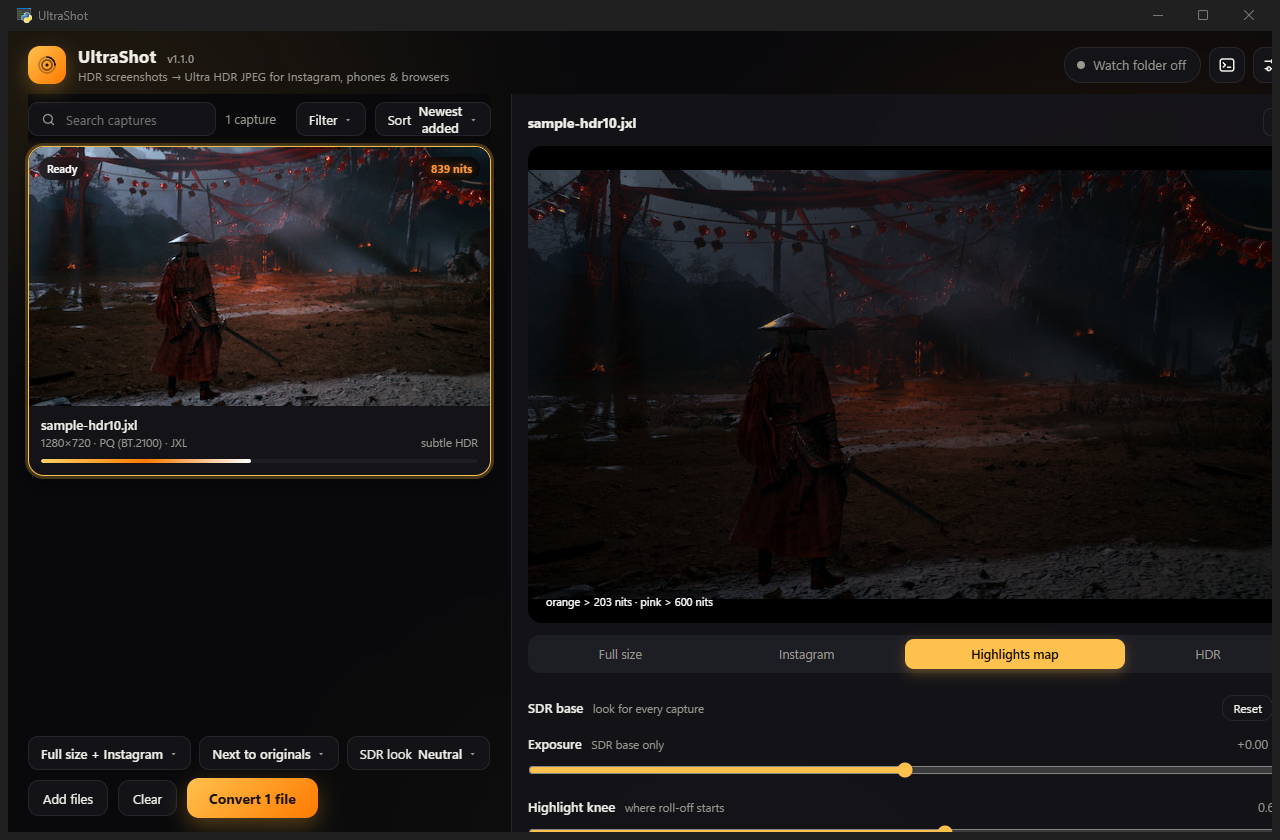
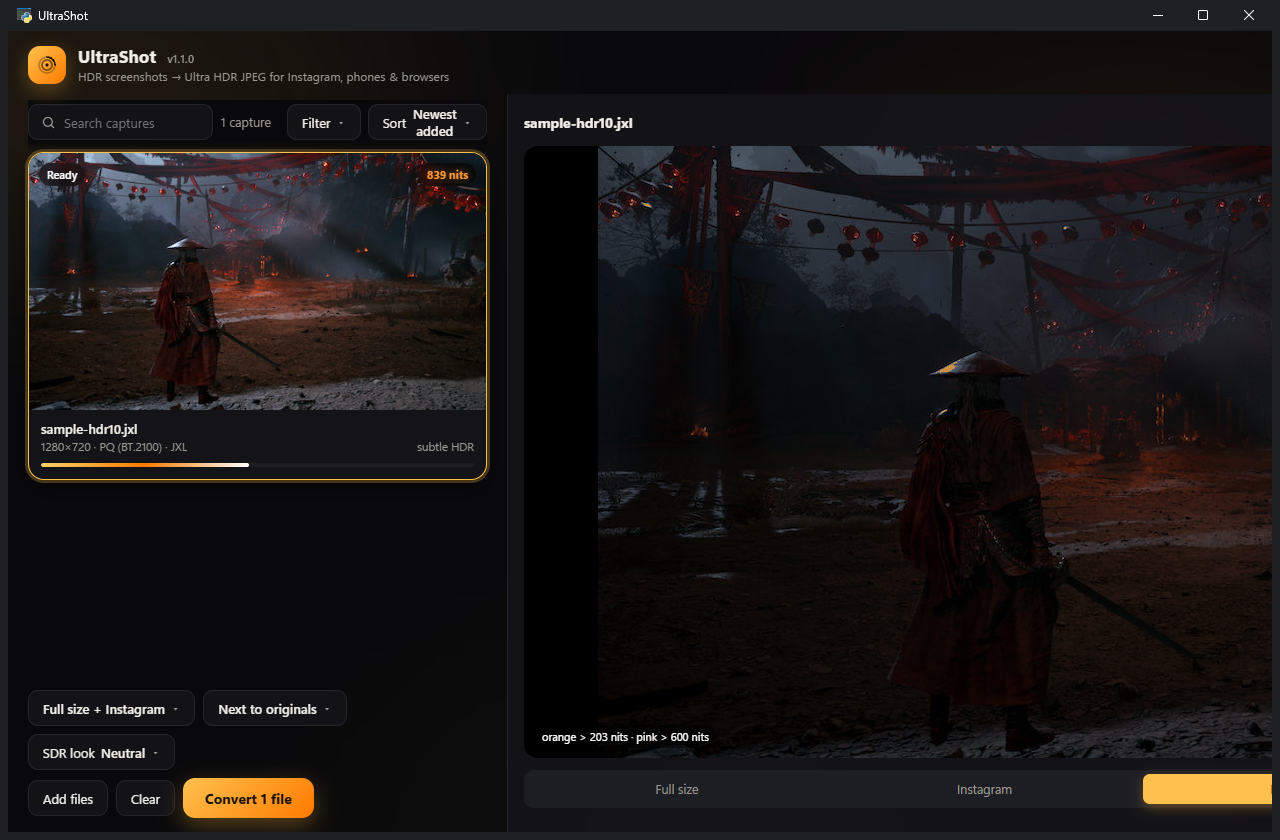
Consistent control sizes, radii, borders and padding across the window
Design tokens for control height, small height, control radius, primary radius and panel radius, applied to the top bar, grid bar, bottom bar, inspector, settings inputs, viewer controls, menus and toasts. The grid bar loses its negative offsets, the search field drops the native search chrome, small buttons rely on container gaps instead of a stray margin, and inputs get matching hover and focus borders.

diff --git a/ui/app.css b/ui/app.css
@@ -15,6 +15,11 @@
   --err: #ff5d6c;
   --shadow: 0 18px 50px rgba(0, 0, 0, 0.45);
   --radius: 16px;
+  --r-ctl: 10px;      /* chips, buttons, inputs, icon buttons, search */
+  --r-btn: 12px;      /* the primary call to action */
+  --r-panel: 14px;    /* previews, settings sections, menus */
+  --h-ctl: 36px;      /* every control in a bar */
+  --h-sm: 28px;       /* small buttons inside headers */
   --font: "Segoe UI Variable Text", "Segoe UI", Inter, system-ui, -apple-system, sans-serif;
   --mono: "Cascadia Code", Consolas, "Courier New", monospace;
 }
@@ -86,15 +91,15 @@ small { color: var(--muted); font-weight: 400; }
 .sub { font-size: 12px; color: var(--muted); margin-top: 1px; }
 .topbar-right { display: flex; align-items: center; gap: 8px; }
 .iconbtn {
-  width: 36px; height: 36px; border-radius: 11px; display: grid; place-items: center; color: var(--text);
+  width: var(--h-ctl); height: var(--h-ctl); border-radius: var(--r-ctl); display: grid; place-items: center; color: var(--text);
   background: var(--panel); border: 1px solid var(--border); backdrop-filter: blur(10px);
   transition: background .15s, transform .1s;
 }
 .iconbtn:hover { background: var(--panel2); }
 .iconbtn:active { transform: scale(.96); }
-.iconbtn.small { width: 28px; height: 28px; border-radius: 8px; }
+.iconbtn.small { width: var(--h-sm); height: var(--h-sm); border-radius: 8px; }
 .pill {
-  display: flex; align-items: center; gap: 8px; height: 36px; padding: 0 14px 0 12px; border-radius: 999px;
+  display: flex; align-items: center; gap: 8px; height: var(--h-ctl); padding: 0 14px 0 12px; border-radius: 999px;
   background: var(--panel); border: 1px solid var(--border); font-size: 13px; color: var(--muted);
   transition: all .15s;
 }
@@ -106,11 +111,12 @@ small { color: var(--muted); font-weight: 400; }
 
 /* ---------- main */
 #main { position: relative; z-index: 1; padding: 6px 20px 12px; overflow: auto; min-height: 0; }
-.gridbar { position: sticky; top: -6px; z-index: 3; display: flex; align-items: center; gap: 10px; padding: 8px 0 10px; margin-top: -6px;
-  background: linear-gradient(var(--bg) 82%, transparent); }
-.gridbar .search { display: flex; align-items: center; gap: 8px; height: 34px; padding: 0 12px; border-radius: 10px; background: var(--panel); border: 1px solid var(--border); color: var(--muted); flex: 0 1 260px; min-width: 140px; }
+.gridbar { position: sticky; top: 0; z-index: 3; display: flex; align-items: center; gap: 8px; padding: 4px 0 12px;
+  background: linear-gradient(var(--bg) 78%, transparent); }
+.gridbar .search { display: flex; align-items: center; gap: 8px; height: var(--h-ctl); padding: 0 12px; border-radius: var(--r-ctl); background: var(--panel); border: 1px solid var(--border); color: var(--muted); flex: 0 1 260px; min-width: 140px; box-sizing: border-box; }
+.gridbar .search:hover { border-color: var(--border2); }
 .gridbar .search:focus-within { border-color: var(--accent); color: var(--text); }
-.gridbar .search input { flex: 1; min-width: 0; border: 0; background: none; color: var(--text); font: inherit; font-size: 13px; outline: none; }
+.gridbar .search input { flex: 1; min-width: 0; border: 0; background: none; color: var(--text); font: inherit; font-size: 13px; outline: none; appearance: none; -webkit-appearance: none; padding: 0; margin: 0; height: 100%; }
 .gridbar .search input::-webkit-search-cancel-button { filter: invert(.7); cursor: pointer; }
 .gridbar .count { font-size: 12.5px; color: var(--muted); white-space: nowrap; }
 .gridbar .spacer { flex: 1; }
@@ -175,34 +181,34 @@ small { color: var(--muted); font-weight: 400; }
 }
 .chips { display: flex; gap: 8px; flex-wrap: wrap; }
 .chip {
-  height: 34px; padding: 0 12px; border-radius: 10px; font-size: 13px; background: var(--panel); border: 1px solid var(--border);
+  height: var(--h-ctl); padding: 0 14px; border-radius: var(--r-ctl); font-size: 13px; background: var(--panel); border: 1px solid var(--border);
   backdrop-filter: blur(10px); display: flex; align-items: center; gap: 6px; transition: all .15s;
 }
 .chip:hover { border-color: var(--border2); background: var(--panel2); }
 .chip::after { content: "▾"; color: var(--muted); font-size: 11px; }
 .chip b { font-weight: 600; }
-.actions { display: flex; align-items: center; gap: 10px; }
+.actions { display: flex; align-items: center; gap: 8px; }
 .primary {
-  height: 40px; padding: 0 22px; border-radius: 12px; font-weight: 650; font-size: 14px; color: #1b1200;
+  height: 40px; padding: 0 22px; border-radius: var(--r-btn); font-weight: 650; font-size: 14px; color: #1b1200;
   background: linear-gradient(135deg, var(--accent), var(--accent2)); box-shadow: 0 8px 22px rgba(255,183,61,.30);
   transition: transform .1s, filter .15s;
 }
 .primary:hover { filter: brightness(1.08); }
 .primary:active { transform: scale(.98); }
 .primary:disabled { opacity: .5; cursor: default; box-shadow: none; }
-.ghost { height: 36px; padding: 0 14px; border-radius: 11px; font-size: 13px; background: var(--panel); border: 1px solid var(--border); }
-.ghost:hover { background: var(--panel2); }
+.ghost { height: var(--h-ctl); padding: 0 14px; border-radius: var(--r-ctl); font-size: 13px; background: var(--panel); border: 1px solid var(--border); transition: background .15s, border-color .15s; }
+.ghost:hover { background: var(--panel2); border-color: var(--border2); }
 .ghost.danger:hover { color: var(--err); border-color: rgba(255,93,108,.4); }
-.ghost.tiny { height: 26px; padding: 0 10px; font-size: 12px; margin-right: 8px; }
+.ghost.tiny { height: var(--h-sm); padding: 0 10px; font-size: 12px; border-radius: 8px; }
 .progress { display: flex; align-items: center; gap: 10px; font-size: 12.5px; color: var(--muted); }
 .progress .bar { width: 180px; height: 6px; border-radius: 6px; background: var(--panel2); overflow: hidden; }
 .progress .fill { height: 100%; width: 0; border-radius: 6px; background: linear-gradient(90deg, var(--accent), var(--accent2)); transition: width .3s; }
 
 /* ---------- inspector */
 .inspector { --w: 440px; --min: 420px; --wmax: 520px; order: 1; }
-.insp-head { display: flex; align-items: center; justify-content: space-between; padding: 14px 16px 10px; }
+.insp-head { display: flex; align-items: center; justify-content: space-between; gap: 12px; padding: 14px 16px 10px; }
 .insp-title { font-weight: 650; font-size: 14px; white-space: nowrap; overflow: hidden; text-overflow: ellipsis; }
-.insp-preview { position: relative; margin: 0 16px; border-radius: 14px; overflow: hidden; background: #000; aspect-ratio: 16/10; display: grid; place-items: center; }
+.insp-preview { position: relative; margin: 0 16px; border-radius: var(--r-panel); overflow: hidden; background: #000; aspect-ratio: 16/10; display: grid; place-items: center; }
 .insp-preview img { max-width: 100%; max-height: 100%; display: block; }
 .insp-preview.framing { display: block; aspect-ratio: var(--frame, 16/10); margin-left: auto; margin-right: auto; cursor: grab; touch-action: none; user-select: none; }
 .insp-preview.framing img { width: 100%; height: 100%; max-width: none; max-height: none; object-fit: cover; object-position: var(--fx, 50%) var(--fy, 50%); pointer-events: none; }
@@ -213,15 +219,16 @@ small { color: var(--muted); font-weight: 400; }
 .insp-preview.framing.dragging .frame-grid { opacity: 1; }
 .frame-hint { font-size: 12px; color: var(--muted); margin-top: 10px; }
 .group-row { margin-top: 14px; }
-.group-row button { margin-left: 8px; }
+.group-row { display: flex; align-items: center; gap: 8px; }
+.group-row button { margin-left: 0; }
 .insp-loading { position: absolute; inset: 0; display: grid; place-items: center; background: rgba(0,0,0,.3); }
 .insp-loading .spinner { width: 22px; height: 22px; }
 .insp-overlay { position: absolute; left: 10px; bottom: 10px; font-size: 11px; padding: 4px 8px; border-radius: 999px; background: rgba(0,0,0,.55); color: #fff; }
-.seg { display: flex; gap: 4px; padding: 4px; border-radius: 12px; background: var(--panel2); margin: 12px 16px 0; }
-.seg button { flex: 1; height: 30px; border-radius: 9px; font-size: 12.5px; color: var(--muted); transition: all .15s; white-space: nowrap; padding: 0 6px; }
+.seg { display: flex; gap: 4px; padding: 4px; border-radius: var(--r-ctl); background: var(--panel2); margin: 12px 16px 0; }
+.seg button { flex: 1; height: 30px; border-radius: 7px; font-size: 12.5px; color: var(--muted); transition: all .15s; white-space: nowrap; padding: 0 8px; }
 .seg button.on { background: var(--accent); color: #1b1200; font-weight: 600; box-shadow: 0 4px 12px rgba(255,183,61,.30); }
 .seg.mini { margin: 6px 0 0; }
-.seg.mini button { height: 26px; font-size: 12px; }
+.seg.mini button { height: 26px; font-size: 12px; border-radius: 6px; }
 .insp-body { padding: 8px 16px 16px; overflow: auto; flex: 1; }
 .field { margin-top: 14px; }
 .field-row { display: flex; justify-content: space-between; align-items: baseline; font-size: 13px; }
@@ -233,15 +240,16 @@ input[type=range] { width: 100%; margin: 8px 0 0; accent-color: var(--accent); h
 #polish { border-top: 1px solid var(--border); padding-top: 12px; margin-top: 18px; }
 .polish-btns { display: flex; gap: 6px; }
 .watermark-row { margin-top: 12px; }
-.insp-body input.text { width: 100%; margin-top: 8px; padding: 8px 10px; border-radius: 9px; border: 1px solid var(--border); background: rgba(255,255,255,.04); color: var(--text); font: inherit; font-size: 13px; outline: none; }
+.insp-body input.text { width: 100%; box-sizing: border-box; height: var(--h-ctl); margin-top: 8px; padding: 0 12px; border-radius: var(--r-ctl); border: 1px solid var(--border); background: var(--panel2); color: var(--text); font: inherit; font-size: 13px; outline: none; transition: border-color .15s; }
+.insp-body input.text:hover { border-color: var(--border2); }
 .insp-body input.text:focus { border-color: var(--accent); }
 .card .polished { color: var(--accent); margin-left: 6px; font-size: 10.5px; }
 .info { margin-top: 16px; display: grid; grid-template-columns: 1fr 1fr; gap: 8px; }
-.info .kv { background: var(--panel2); border-radius: 10px; padding: 8px 10px; }
+.info .kv { background: var(--panel2); border-radius: var(--r-ctl); padding: 8px 10px; }
 .info .k { font-size: 11px; color: var(--muted); }
 .info .v { font-size: 13.5px; font-weight: 600; margin-top: 2px; font-variant-numeric: tabular-nums; }
 .insp-actions { display: flex; gap: 8px; margin-top: 16px; flex-wrap: wrap; }
-.insp-actions .primary { height: 36px; padding: 0 16px; font-size: 13px; }
+.insp-actions .primary { height: var(--h-ctl); padding: 0 16px; font-size: 13px; border-radius: var(--r-ctl); }
 
 /* ---------- settings page */
 .page { --w: 620px; --min: 600px; --wmax: 720px; order: 3; }
@@ -252,7 +260,7 @@ input[type=range] { width: 100%; margin: 8px 0 0; accent-color: var(--accent); h
 .row { flex-wrap: wrap; }
 .row .ctl { flex-wrap: wrap; justify-content: flex-end; }
 .section-title { font-size: 12.5px; font-weight: 650; color: var(--muted); margin: 20px 4px 8px; text-transform: uppercase; letter-spacing: .4px; }
-.section { background: var(--panel-solid); border: 1px solid var(--border); border-radius: 14px; overflow: hidden; }
+.section { background: var(--panel-solid); border: 1px solid var(--border); border-radius: var(--r-panel); overflow: hidden; }
 .row { display: flex; align-items: center; justify-content: space-between; gap: 16px; padding: 12px 16px; border-top: 1px solid var(--border); }
 .row:first-child { border-top: 0; }
 .row.sub { padding-left: 40px; }
@@ -260,10 +268,12 @@ input[type=range] { width: 100%; margin: 8px 0 0; accent-color: var(--accent); h
 .row .hint { font-size: 12px; color: var(--muted); margin-top: 2px; }
 .row .ctl { display: flex; align-items: center; gap: 8px; flex-shrink: 0; }
 .row input[type=text], .row input[type=number] {
-  height: 32px; border-radius: 9px; border: 1px solid var(--border2); background: var(--panel2); color: var(--text);
-  padding: 0 10px; font: inherit; font-size: 13px; width: min(220px, 100%);
+  height: 34px; border-radius: var(--r-ctl); border: 1px solid var(--border); background: var(--panel2); color: var(--text);
+  padding: 0 12px; font: inherit; font-size: 13px; width: min(220px, 100%); outline: none; transition: border-color .15s;
 }
 .row input[type=number] { width: 110px; }
+.row input[type=text]:hover, .row input[type=number]:hover { border-color: var(--border2); }
+.row input[type=text]:focus, .row input[type=number]:focus { border-color: var(--accent); }
 .row input[type=range] { width: min(220px, 100%); margin: 0; }
 .row .seg { margin: 0; }
 .row .seg button { flex: 0 0 auto; padding: 0 12px; }
@@ -290,7 +300,7 @@ input[type=range] { width: 100%; margin: 8px 0 0; accent-color: var(--accent); h
 .dragbox { padding: 40px 60px; border: 2px dashed var(--accent); border-radius: 24px; text-align: center; font-size: 18px; font-weight: 650; animation: pop .15s ease-out; }
 .dragbox .dz-icon { margin-bottom: 14px; }
 .popover {
-  position: fixed; z-index: 50; min-width: 220px; padding: 6px; border-radius: 12px; background: var(--panel-solid);
+  position: fixed; z-index: 50; min-width: 220px; padding: 6px; border-radius: var(--r-panel); background: var(--panel-solid);
   border: 1px solid var(--border2); box-shadow: var(--shadow); animation: pop .15s ease-out;
 }
 .popover .item { display: flex; align-items: center; justify-content: space-between; gap: 12px; width: 100%; padding: 9px 10px; border-radius: 8px; font-size: 13px; text-align: left; }
@@ -302,7 +312,7 @@ input[type=range] { width: 100%; margin: 8px 0 0; accent-color: var(--accent); h
 .popover .item .check { flex: 0 0 auto; }
 #toasts { position: fixed; top: 16px; left: 50%; transform: translateX(-50%); z-index: 60; display: flex; flex-direction: column; gap: 8px; pointer-events: none; }
 .toast {
-  padding: 10px 16px; border-radius: 12px; background: var(--panel-solid); border: 1px solid var(--border2); box-shadow: var(--shadow);
+  padding: 10px 16px; border-radius: var(--r-panel); background: var(--panel-solid); border: 1px solid var(--border2); box-shadow: var(--shadow);
   font-size: 13px; animation: pop .2s ease-out; display: flex; align-items: center; gap: 8px;
 }
 .toast.ok { border-color: rgba(58,213,154,.5); }
@@ -330,7 +340,7 @@ input[type=range] { width: 100%; margin: 8px 0 0; accent-color: var(--accent); h
 .lb-stage img { max-width: 100%; max-height: 100%; object-fit: contain; border-radius: 8px; box-shadow: 0 30px 80px rgba(0,0,0,.6); }
 .lb-loading { position: absolute; inset: 0; display: grid; place-items: center; pointer-events: none; }
 .lb-loading .spinner { width: 26px; height: 26px; }
-.lb-nav { grid-row: 2; align-self: center; justify-self: center; width: 40px; height: 64px; border-radius: 12px; font-size: 34px; line-height: 1; color: var(--text); background: var(--panel); border: 1px solid var(--border); }
+.lb-nav { grid-row: 2; align-self: center; justify-self: center; width: 40px; height: 64px; border-radius: var(--r-ctl); font-size: 34px; line-height: 1; color: var(--text); background: var(--panel); border: 1px solid var(--border); }
 .lb-nav:hover { background: var(--panel2); }
 .lb-prev { grid-column: 1; } .lb-next { grid-column: 3; }
 .lb-foot { grid-column: 1 / -1; text-align: center; font-size: 12px; color: var(--muted); padding: 8px 18px 12px; }

diff --git a/CHANGELOG.md b/CHANGELOG.md
@@ -23,6 +23,9 @@ All notable changes to UltraShot are documented here. The format follows
   same tone map so the two differ only by what the encoder changed. The source comparison reports
   the PSNR of the base image against the source, the share of pixels off by more than two levels,
   and the mean, 99th-percentile and over-five-percent luminance error of the reconstructed HDR layer.
+- One set of control sizes across the window: every chip, button, input, icon button and search box
+  shares the same height, corner radius, border and padding, and the grid bar no longer sits on a
+  negative offset that could clip the search box's edge.
 - A bar above the tiles with search, a filter (pending, converted, failed; JPEG XL or JPEG XR;
   polished only) and a sort (added, capture date, name, brightest, largest). The Convert button and
   the viewer follow what is shown, the sort is remembered, and Ctrl+F jumps to the search.
